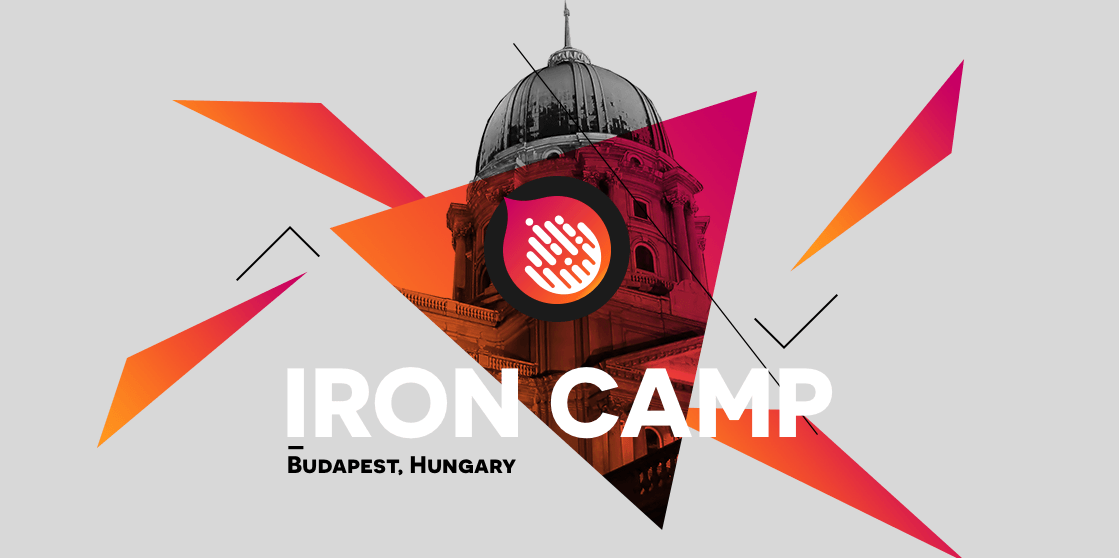
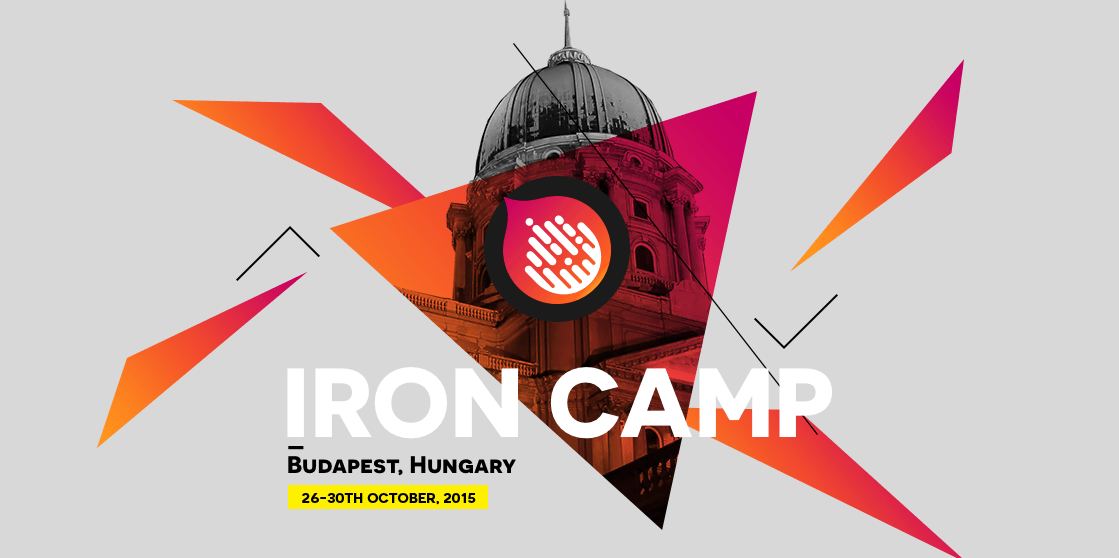
link manifesto on frontpage

Changed region(s): [[0.2431, 0.853, 0.4558, 0.914]]

diff --git a/docroot/css/style.css b/docroot/css/style.css
@@ -1,1 +1,1 @@
-@import url(http://fonts.googleapis.com/css?family=Roboto+Slab);@font-face{font-family:'novecento_sans_widenormal';src:url("../_assets/fonts/Novecento/Novecentosanswide-Normal-webfont.eot");src:url("../_assets/fonts/Novecento/Novecentosanswide-Normal-webfont.eot?#iefix") format("embedded-opentype"),url("../_assets/fonts/Novecento/Novecentosanswide-Normal-webfont.woff2") format("woff2"),url("../_assets/fonts/Novecento/Novecentosanswide-Normal-webfont.woff") format("woff"),url("../_assets/fonts/Novecento/Novecentosanswide-Normal-webfont.ttf") format("truetype"),url("../_assets/fonts/Novecento/Novecentosanswide-Normal-webfont.svg#novecento_sans_widenormal") format("svg");font-weight:normal;font-style:normal}@font-face{font-family:'novecento_sans_widedemibold';src:url("../_assets/fonts/Novecento/Novecentosanswide-DemiBold-webfont.eot");src:url("../_assets/fonts/Novecento/Novecentosanswide-DemiBold-webfont.eot?#iefix") format("embedded-opentype"),url("../_assets/fonts/Novecento/Novecentosanswide-DemiBold-webfont.woff2") format("woff2"),url("../_assets/fonts/Novecento/Novecentosanswide-DemiBold-webfont.woff") format("woff"),url("../_assets/fonts/Novecento/Novecentosanswide-DemiBold-webfont.ttf") format("truetype"),url("../_assets/fonts/Novecento/Novecentosanswide-DemiBold-webfont.svg#novecento_sans_widedemibold") format("svg");font-weight:normal;font-style:normal}@font-face{font-family:'novecento_sans_widebook';src:url("../_assets/fonts/Novecento/Novecentosanswide-Book-webfont.eot");src:url("../_assets/fonts/Novecento/Novecentosanswide-Book-webfont.eot?#iefix") format("embedded-opentype"),url("../_assets/fonts/Novecento/Novecentosanswide-Book-webfont.woff2") format("woff2"),url("../_assets/fonts/Novecento/Novecentosanswide-Book-webfont.woff") format("woff"),url("../_assets/fonts/Novecento/Novecentosanswide-Book-webfont.ttf") format("truetype"),url("../_assets/fonts/Novecento/Novecentosanswide-Book-webfont.svg#novecento_sans_widebook") format("svg");font-weight:normal;font-style:normal}*{font-family:"Roboto Slab",sans-serif}h1,h2,h3,h4{font-family:"novecento_sans_widenormal",sans-serif;text-transform:uppercase}.section{padding-top:60px;padding-bottom:60px}.section-title,.newsletter #mc_embed_signup h2{font-size:32px;line-height:36px;margin-bottom:25px;margin-top:20px}.jumbotron{padding:0;margin-bottom:0;position:relative;background:#D8D8D8}.jumbotron img{display:block;margin:0 auto;max-width:100%;width:auto}.jumbotron .when{width:298px;height:60px;background:#FFF000;color:#1d1d1d;font-size:22px;text-align:center;margin:0 auto;position:relative;top:30px;line-height:60px;font-family:"novecento_sans_widedemibold",sans-serif}.logo i{background-repeat:no-repeat;background-image:url("../_assets/img/sprite.png");width:150px;height:278px;background-position:0 0;display:block;margin:0 auto}@media only screen and (-webkit-min-device-pixel-ratio: 2), only screen and (min--moz-device-pixel-ratio: 2), only screen and (-o-min-device-pixel-ratio: 2 / 1), only screen and (min-device-pixel-ratio: 2), only screen and (min-resolution: 192dpi), only screen and (min-resolution: 2dppx){.logo i{background-image:url("../_assets/img/sprite-2x.png");background-size:150px 347px}}.info{color:#ee4036}.info *{line-height:100%;font-family:"novecento_sans_widedemibold",sans-serif}.info p{margin:0;letter-spacing:-0.5px;font-size:42px}.summary p{padding:0;margin-bottom:30px;text-align:justify;width:96%;line-height:26px;font-size:16px}.newsletter #mc_embed_signup form{padding:0}.newsletter #mc_embed_signup .mc-field-group{padding-bottom:22px}.newsletter #mc_embed_signup .mc-field-group label{font-size:16px}.newsletter #mc_embed_signup .button{background-color:#d51653;font-size:18px;padding:10px 32px;height:50px;font-family:"novecento_sans_widedemibold",sans-serif;text-transform:uppercase;border-radius:0}.newsletter #mc_embed_signup .button:hover,.newsletter #mc_embed_signup .button:active{color:#1d1d1d}.social{background-color:#d8d8d8;text-align:center}.social h2,.social span{font-size:44px;color:#1d1d1d;font-family:"novecento_sans_widedemibold",sans-serif}.social h2{padding:0 15px}.social h3{padding:0 15px;font-family:"novecento_sans_widedemibold",sans-serif;line-height:1.5em}.social h3 a{color:#ff841c;font-family:"novecento_sans_widedemibold",sans-serif}.social h3 a:hover,.social h3 a:active{color:#ffa04f;text-decoration:none}.social span{color:#A30B03}.social i{display:inline-block;background-repeat:no-repeat;background-image:url("../_assets/img/sprite.png")}@media only screen and (-webkit-min-device-pixel-ratio: 2), only screen and (min--moz-device-pixel-ratio: 2), only screen and (-o-min-device-pixel-ratio: 2 / 1), only screen and (min-device-pixel-ratio: 2), only screen and (min-resolution: 192dpi), only screen and (min-resolution: 2dppx){.social i{background-image:url("../_assets/img/sprite-2x.png");background-size:150px 347px}}.social i.twitter{width:51px;height:44px;background-position:0px -283px}.social i.facebook{width:24px;height:42px;background-position:-58px -283px}#footer{background-color:#000;color:#ccc;text-align:center}#footer p{font-size:1em;line-height:1.5em;margin:1em}#footer #acquia_logo{margin-bottom:1em}.btn-ironcamp{background-color:#ff841c;color:#fff;padding:15px 25px;font-family:"novecento_sans_widedemibold",sans-serif;text-transform:uppercase;font-size:18px;line-height:30px;min-height:60px;border-radius:0}.btn-ironcamp:hover,.btn-ironcamp:active{color:#1d1d1d}@media only screen and (max-width: 767px){.info{display:block;position:absolute;left:50%;top:380px;margin-left:-72px}.btn-ironcamp{white-space:normal}.summary p{text-align:left}.section.newsletter{padding-top:0}.section__twitter{padding-top:50px}.social h2{font-size:30px}.social h3{font-size:18px}.only-mobile{display:block}}@media only screen and (min-width: 768px){.info{position:absolute;left:50%;top:339px;border-left:2px solid #ee4036;padding-left:15px;margin-left:90px}.only-mobile{display:none}}
+@import url(http://fonts.googleapis.com/css?family=Roboto+Slab);@font-face{font-family:'novecento_sans_widenormal';src:url("../_assets/fonts/Novecento/Novecentosanswide-Normal-webfont.eot");src:url("../_assets/fonts/Novecento/Novecentosanswide-Normal-webfont.eot?#iefix") format("embedded-opentype"),url("../_assets/fonts/Novecento/Novecentosanswide-Normal-webfont.woff2") format("woff2"),url("../_assets/fonts/Novecento/Novecentosanswide-Normal-webfont.woff") format("woff"),url("../_assets/fonts/Novecento/Novecentosanswide-Normal-webfont.ttf") format("truetype"),url("../_assets/fonts/Novecento/Novecentosanswide-Normal-webfont.svg#novecento_sans_widenormal") format("svg");font-weight:normal;font-style:normal}@font-face{font-family:'novecento_sans_widedemibold';src:url("../_assets/fonts/Novecento/Novecentosanswide-DemiBold-webfont.eot");src:url("../_assets/fonts/Novecento/Novecentosanswide-DemiBold-webfont.eot?#iefix") format("embedded-opentype"),url("../_assets/fonts/Novecento/Novecentosanswide-DemiBold-webfont.woff2") format("woff2"),url("../_assets/fonts/Novecento/Novecentosanswide-DemiBold-webfont.woff") format("woff"),url("../_assets/fonts/Novecento/Novecentosanswide-DemiBold-webfont.ttf") format("truetype"),url("../_assets/fonts/Novecento/Novecentosanswide-DemiBold-webfont.svg#novecento_sans_widedemibold") format("svg");font-weight:normal;font-style:normal}@font-face{font-family:'novecento_sans_widebook';src:url("../_assets/fonts/Novecento/Novecentosanswide-Book-webfont.eot");src:url("../_assets/fonts/Novecento/Novecentosanswide-Book-webfont.eot?#iefix") format("embedded-opentype"),url("../_assets/fonts/Novecento/Novecentosanswide-Book-webfont.woff2") format("woff2"),url("../_assets/fonts/Novecento/Novecentosanswide-Book-webfont.woff") format("woff"),url("../_assets/fonts/Novecento/Novecentosanswide-Book-webfont.ttf") format("truetype"),url("../_assets/fonts/Novecento/Novecentosanswide-Book-webfont.svg#novecento_sans_widebook") format("svg");font-weight:normal;font-style:normal}*{font-family:"Roboto Slab",sans-serif}h1,h2,h3,h4{font-family:"novecento_sans_widenormal",sans-serif;text-transform:uppercase}.section{padding-top:60px;padding-bottom:60px}.section-title,.newsletter #mc_embed_signup h2{font-size:32px;line-height:36px;margin-bottom:25px;margin-top:20px}.jumbotron{padding:0;margin-bottom:0;position:relative;background:#D8D8D8}.jumbotron img{display:block;margin:0 auto;max-width:100%;width:auto}.jumbotron .when{width:210px;height:80px;background:#ff841c;text-align:center;margin:0 auto;position:relative;top:30px;line-height:30px}.jumbotron .when a{display:block;font-family:"novecento_sans_widebook",sans-serif;color:#fff;font-size:24px;text-decoration:none;padding:10px 0}.jumbotron .when a span{display:block;font-family:"novecento_sans_widenormal",sans-serif;font-size:30px}.jumbotron .when a:hover{color:#000}.logo i{background-repeat:no-repeat;background-image:url("../_assets/img/sprite.png");width:150px;height:278px;background-position:0 0;display:block;margin:0 auto}@media only screen and (-webkit-min-device-pixel-ratio: 2), only screen and (min--moz-device-pixel-ratio: 2), only screen and (-o-min-device-pixel-ratio: 2 / 1), only screen and (min-device-pixel-ratio: 2), only screen and (min-resolution: 192dpi), only screen and (min-resolution: 2dppx){.logo i{background-image:url("../_assets/img/sprite-2x.png");background-size:150px 347px}}.info{color:#ee4036}.info *{line-height:100%;font-family:"novecento_sans_widedemibold",sans-serif}.info p{margin:0;letter-spacing:-0.5px;font-size:42px}.summary p{padding:0;margin-bottom:30px;text-align:justify;width:96%;line-height:26px;font-size:16px}.newsletter #mc_embed_signup form{padding:0}.newsletter #mc_embed_signup .mc-field-group{padding-bottom:22px}.newsletter #mc_embed_signup .mc-field-group label{font-size:16px}.newsletter #mc_embed_signup .button{background-color:#d51653;font-size:18px;padding:10px 32px;height:50px;font-family:"novecento_sans_widedemibold",sans-serif;text-transform:uppercase;border-radius:0}.newsletter #mc_embed_signup .button:hover,.newsletter #mc_embed_signup .button:active{color:#1d1d1d}.social{background-color:#d8d8d8;text-align:center}.social h2,.social span{font-size:44px;color:#1d1d1d;font-family:"novecento_sans_widedemibold",sans-serif}.social h2{padding:0 15px}.social h3{padding:0 15px;font-family:"novecento_sans_widedemibold",sans-serif;line-height:1.5em}.social h3 a{color:#ff841c;font-family:"novecento_sans_widedemibold",sans-serif}.social h3 a:hover,.social h3 a:active{color:#ffa04f;text-decoration:none}.social span{color:#A30B03}.social i{display:inline-block;background-repeat:no-repeat;background-image:url("../_assets/img/sprite.png")}@media only screen and (-webkit-min-device-pixel-ratio: 2), only screen and (min--moz-device-pixel-ratio: 2), only screen and (-o-min-device-pixel-ratio: 2 / 1), only screen and (min-device-pixel-ratio: 2), only screen and (min-resolution: 192dpi), only screen and (min-resolution: 2dppx){.social i{background-image:url("../_assets/img/sprite-2x.png");background-size:150px 347px}}.social i.twitter{width:51px;height:44px;background-position:0px -283px}.social i.facebook{width:24px;height:42px;background-position:-58px -283px}#footer{background-color:#000;color:#ccc;text-align:center}#footer p{font-size:1em;line-height:1.5em;margin:1em}#footer #acquia_logo{margin-bottom:1em}.btn-ironcamp{background-color:#ff841c;color:#fff;padding:15px 25px;font-family:"novecento_sans_widedemibold",sans-serif;text-transform:uppercase;font-size:18px;line-height:30px;min-height:60px;border-radius:0}.btn-ironcamp:hover,.btn-ironcamp:active{color:#1d1d1d}@media only screen and (max-width: 767px){.info{display:block;position:absolute;left:50%;top:380px;margin-left:-72px}.btn-ironcamp{white-space:normal}.summary p{text-align:left}.section.newsletter{padding-top:0}.section__twitter{padding-top:50px}.social h2{font-size:30px}.social h3{font-size:18px}.only-mobile{display:block}}@media only screen and (min-width: 768px){.info{position:absolute;left:50%;top:339px;border-left:2px solid #ee4036;padding-left:15px;margin-left:90px}.only-mobile{display:none}}

diff --git a/docroot/sass/_base.scss b/docroot/sass/_base.scss
@@ -31,17 +31,33 @@ h1, h2, h3, h4 {
   }
 
   .when {
-    width: 298px;
-    height: 60px;
-    background: #FFF000;
-    color: $ic_darkgrey;
-    font-size: 22px;
+    width: 210px;
+    height: 80px;
+    background: $ic_orange;
     text-align: center;
     margin: 0 auto;
     position: relative;
     top: 30px;
-    line-height: 60px;
-    font-family: $base_font_novecento_demibold;
+    line-height: 30px;
+	
+	a {
+		display: block;
+	    font-family: $base_font_novecento_book;		
+		color: $white;
+	    font-size: 24px;
+		text-decoration: none;
+		padding: 10px 0;
+
+		span {
+			display: block;
+		    font-family: $base_font_novecento_normal;			
+		    font-size: 30px;
+		}
+		
+		&:hover {
+			color: $black;
+		}
+	}
   }
 }
 

diff --git a/docroot/index.html b/docroot/index.html
@@ -45,7 +45,7 @@
 <!-- Main jumbotron for a primary marketing message or call to action -->
 <div class="jumbotron">
   <img src="_assets/img/ironcamp-header-bg.png" alt="Drupal Iron Camp"/>
-  <div class="when">26-30th October, 2015</div>
+  <div class="when"><a href="/Drupal_Iron_Camp_Manifesto.pdf">Why sponsor<span>Iron Camp?</span></a></div>
 </div>
 
 <div class="container summary section">
